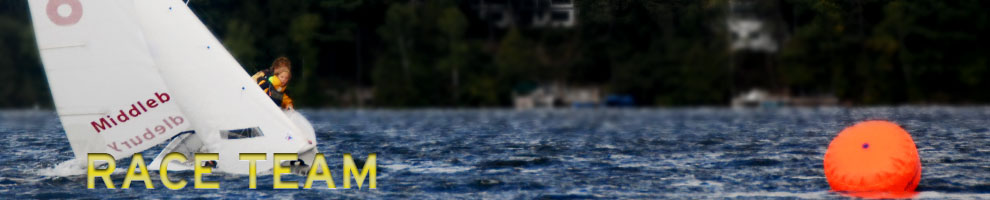
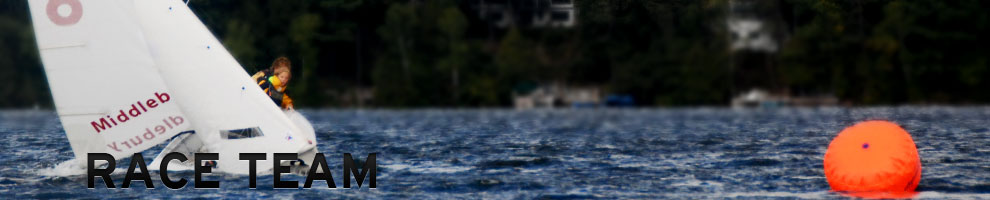
Changed a bunch of stuff

Changed region(s): [[0.0909, 0.75, 0.3939, 0.96]]

diff --git a/style.css b/style.css
@@ -143,6 +143,7 @@ a:active {
 h1 {
     font-size: 2em;
     margin: 0;
+    font-weight: normal;
 }
 
 h2 {
@@ -566,6 +567,7 @@ body{
 	margin-left:auto;
 	margin-right:auto;
 	background-color: rgb(36,23,17);
+	opacity: 0.97;
 }
 #logo{
 	margin-top: 10px;
@@ -617,6 +619,7 @@ body{
 }
 #content{
 	background-color: rgb(39,39,39);
+	opacity: 0.97;
 	margin: 0px;
 	overflow: auto;
 }
@@ -646,9 +649,19 @@ body{
 	float: left;
 	padding: 15px;
 }
+.alignright{
+	float: right;
+	padding: 5px 15px;
+}
 .alignnone{
 	float: none;
 	padding: 15px;
+}
+.aligncenter{
+	float: none;
+	padding: 15px;
+	margin-left: auto;
+	margin-right: auto;
 }
 .content_header{
 	font-size: 1.5em;
@@ -669,7 +682,29 @@ body{
 	margin: 15px;
 	width: 200px;
 }
-
+.list-header{
+	margin-left:0px;
+	padding-left:0px;
+	list-style-type:none;
+	font-weight: bold;
+	font-size: 1.2em;
+	padding-bottom: 5px;
+	padding-top: 25px;
+	list-style-image: none;
+}
+li {
+	list-style-image: url(img/list.png);
+}
+#calendar{
+	margin-top: 30px;
+}
+th, td{
+	padding: 5px 10px;
+	text-align: left;
+}
+.participants-database{
+	padding-top: 30px;
+}
 
 /* Slideshow Animations */
 @-webkit-keyframes slideshow{
@@ -792,6 +827,9 @@ body{
 	font-size: small;
 	padding-left: 25px;
 	border-top: 1pt solid rgb(68,96,107);
+}
+.sidebar a{
+	text-decoration: none;
 }
 .sidebar li:hover{
 	color: rgb(229,207,169);

diff --git a/header.php b/header.php
@@ -13,26 +13,26 @@
 </head>
 <body <?php if(is_front_page()){ echo 'class="fp-body"';} ?>>
 	<div id="header">
-		<a href="http://www.middsailing.com/">
+		<a href="<?php bloginfo('url'); ?>">
 			<img src="<?php bloginfo("stylesheet_directory"); ?>/img/logo.png" id="logo">
 		</a>
 		<div id="main_nav">
-			<a id="friends" class="nav-button" href="/friends">
+			<a id="friends" class="nav-button" href="<?php bloginfo('url'); ?>/friends">
 				Friends & Alumni
 			</a>
-			<a id="media" class="nav-button" href="/media">
+			<a id="media" class="nav-button" href="<?php bloginfo('url'); ?>/media">
 				Media
 			</a>
-			<a id="rec-pe" class="nav-button" href="/rec-pe">
+			<a id="rec-pe" class="nav-button" href="<?php bloginfo('url'); ?>/recpe">
 				Rec & PE
 			</a>
-			<a id="race" class="nav-button" href="/race">
+			<a id="race" class="nav-button" href="<?php bloginfo('url'); ?>/race">
 				Racing
 			</a>
-			<a id="about" class="nav-button" href="/about">
+			<a id="about" class="nav-button" href="<?php bloginfo('url'); ?>/club-overview">
 				About Us
 			</a>
-			<a id="news" class="nav-button" href="/news">
+			<a id="news" class="nav-button" href="<?php bloginfo('url'); ?>">
 				News
 			</a>
 		</div><!-- main_nav -->

diff --git a/page-calendar.php b/page-calendar.php
@@ -1,0 +1,29 @@
+<?php
+/*
+Template Name: Calendar
+*/
+?>
+
+<?php get_header(); ?>
+
+<img id="banner" src="<?php bloginfo("stylesheet_directory") ;?>/img/banners/race.jpg">
+
+<div id="content">
+
+	<?php get_sidebar(); ?>
+	
+	<img class="info_right" src="<?php bloginfo("stylesheet_directory"); ?>/img/quick_facts.png">
+	<div class="primary">
+		
+		<a href="<?php bloginfo("url"); ?>/race"><div class="content_header">Overview</div></a>
+		<a href="<?php bloginfo("url"); ?>/roster"><div class="content_header">Roster</div></a>
+		<a href="<?php bloginfo("url"); ?>/calendar"><div class="content_header" id="active">Calendar</div></a>
+		
+		<?php while(have_posts()):the_post(); ?>
+		<?php the_content();?>
+		<?php endwhile; ?>
+		<iframe id="calendar" src="https://www.google.com/calendar/embed?height=500&amp;wkst=1&amp;bgcolor=%23ffffff&amp;src=sailing%40middlebury.edu&amp;color=%232F6309&amp;ctz=America%2FNew_York" style=" border-width:0 " width="550" height="500" frameborder="0" scrolling="no"></iframe>
+	</div><!-- #primary -->
+</div> <!-- Content -->
+
+<?php get_footer(); ?>

diff --git a/page_history.php b/page_history.php
@@ -15,9 +15,9 @@ Template Name: History
 	<img class="info_right" src="<?php bloginfo("stylesheet_directory"); ?>/img/quick_facts.png">
 	<div class="primary">
 		
-		<a href="/sailing/wordpress/club-overview"><div class="content_header">Club Overview</div></a>
-		<a href="/sailing/wordpress/our-venue"><div class="content_header">Our Venue</div></a>
-		<a href="/sailing/wordpress/our-history"><div class="content_header" id="active">Our History</div></a>
+		<a href="<?php bloginfo("url"); ?>/club-overview"><div class="content_header">Club Overview</div></a>
+		<a href="<?php bloginfo("url"); ?>/our-venue"><div class="content_header">Our Venue</div></a>
+		<a href="<?php bloginfo("url"); ?>/our-history"><div class="content_header" id="active">Our History</div></a>
 		
 		<?php while(have_posts()):the_post(); ?>
 		<?php the_content();?>

diff --git a/page-about.php b/page-about.php
@@ -15,9 +15,9 @@ Template Name: About
 	<img class="info_right" src="<?php bloginfo("stylesheet_directory"); ?>/img/quick_facts.png">
 	<div class="primary">
 		
-		<a href="/sailing/wordpress/club-overview"><div class="content_header" id="active">Club Overview</div></a>
-		<a href="/sailing/wordpress/our-venue"><div class="content_header">Our Venue</div></a>
-		<a href="/sailing/wordpress/our-history"><div class="content_header">Our History</div></a>
+		<a href="<?php bloginfo("url"); ?>/club-overview"><div class="content_header" id="active">Club Overview</div></a>
+		<a href="<?php bloginfo("url"); ?>/our-venue"><div class="content_header">Our Venue</div></a>
+		<a href="<?php bloginfo("url"); ?>/our-history"><div class="content_header">Our History</div></a>
 		
 		<?php while(have_posts()):the_post(); ?>
 		<?php the_content();?>

diff --git a/page-venue.php b/page-venue.php
@@ -15,9 +15,9 @@ Template Name: Venue
 	<img class="info_right" src="<?php bloginfo("stylesheet_directory"); ?>/img/dunmore_map.jpg">
 	<div class="primary">
 		
-		<a href="/sailing/wordpress/club-overview"><div class="content_header">Club Overview</div></a>
-		<a href="/sailing/wordpress/our-venue"><div class="content_header" id="active">Our Venue</div></a>
-		<a href="/sailing/wordpress/our-history"><div class="content_header">Our History</div></a>
+		<a href="<?php bloginfo("url"); ?>/club-overview"><div class="content_header">Club Overview</div></a>
+		<a href="<?php bloginfo("url"); ?>/our-venue"><div class="content_header" id="active">Our Venue</div></a>
+		<a href="<?php bloginfo("url"); ?>/our-history"><div class="content_header">Our History</div></a>
 		
 		<?php while(have_posts()):the_post(); ?>
 		<?php the_content();?>

diff --git a/page-race.php b/page-race.php
@@ -1,0 +1,28 @@
+<?php
+/*
+Template Name: Race Overview
+*/
+?>
+
+<?php get_header(); ?>
+
+<img id="banner" src="<?php bloginfo("stylesheet_directory") ;?>/img/banners/race.jpg">
+
+<div id="content">
+
+	<?php get_sidebar(); ?>
+	
+	<img class="info_right" src="<?php bloginfo("stylesheet_directory"); ?>/img/quick_facts.png">
+	<div class="primary">
+		
+		<a href="<?php bloginfo("url"); ?>/race"><div class="content_header" id="active">Overview</div></a>
+		<a href="<?php bloginfo("url"); ?>/roster"><div class="content_header">Roster</div></a>
+		<a href="<?php bloginfo("url"); ?>/calendar"><div class="content_header">Calendar</div></a>
+		
+		<?php while(have_posts()):the_post(); ?>
+		<?php the_content();?>
+		<?php endwhile; ?>
+	</div><!-- #primary -->
+</div> <!-- Content -->
+
+<?php get_footer(); ?>

diff --git a/page-roster.php b/page-roster.php
@@ -1,0 +1,28 @@
+<?php
+/*
+Template Name: Roster
+*/
+?>
+
+<?php get_header(); ?>
+
+<img id="banner" src="<?php bloginfo("stylesheet_directory") ;?>/img/banners/race.jpg">
+
+<div id="content">
+
+	<?php get_sidebar(); ?>
+	
+	<img class="info_right" src="<?php bloginfo("stylesheet_directory"); ?>/img/quick_facts.png">
+	<div class="primary">
+		
+		<a href="<?php bloginfo("url"); ?>/race"><div class="content_header">Overview</div></a>
+		<a href="<?php bloginfo("url"); ?>/roster"><div class="content_header" id="active">Roster</div></a>
+		<a href="<?php bloginfo("url"); ?>/calendar"><div class="content_header">Calendar</div></a>
+		
+		<?php while(have_posts()):the_post(); ?>
+		<?php the_content();?>
+		<?php endwhile; ?>
+	</div><!-- #primary -->
+</div> <!-- Content -->
+
+<?php get_footer(); ?>

diff --git a/sidebar.php b/sidebar.php
@@ -1,10 +1,10 @@
 <div class="sidebar">
 	<ul>
-		<li>Team Resources</li>
-		<li>Calendar</li>
-		<li>Contact Us</li>
-		<li>Register</li>
-		<li  id="sidebar_bottom">Donate</li>
+		<a href="<?php bloginfo("url"); ?>/resources"><li>Team Resources</li></a>
+		<a href="<?php bloginfo("url"); ?>/calendar"><li>Calendar</li></a>
+		<a href="<?php bloginfo("url"); ?>/contact"><li>Contact Us</li></a>
+		<a href="<?php bloginfo("url"); ?>/register"><li>Register</li></a>
+		<a href="https://secure.www.alumniconnections.com/olc/pub/MDR/onlinegiving/showGivingForm.jsp?form_id=8525"><li  id="sidebar_bottom">Donate</li></a>
 	</ul>
 	<div id="board">
 		<b>Current Board Members</b>

diff --git a/page-recpe.php b/page-recpe.php
@@ -1,7 +1,12 @@
+<?php
+/*
+Template Name: Rec/PE
+*/
+?>
+
 <?php get_header(); ?>
 
-<div id="slideshow">
-</div>
+<img id="banner" src="<?php bloginfo("stylesheet_directory") ;?>/img/banners/rec.jpg">
 
 <div id="content">
 

diff --git a/sidebar-right.php b/sidebar-right.php
@@ -1,0 +1,3 @@
+<?php if ( !function_exists('dynamic_sidebar')
+        || !dynamic_sidebar() ) : ?>
+<?php endif; ?>

diff --git a/functions.php b/functions.php
@@ -1,0 +1,4 @@
+<?php
+if ( function_exists('register_sidebar') )
+    register_sidebar();
+?>
